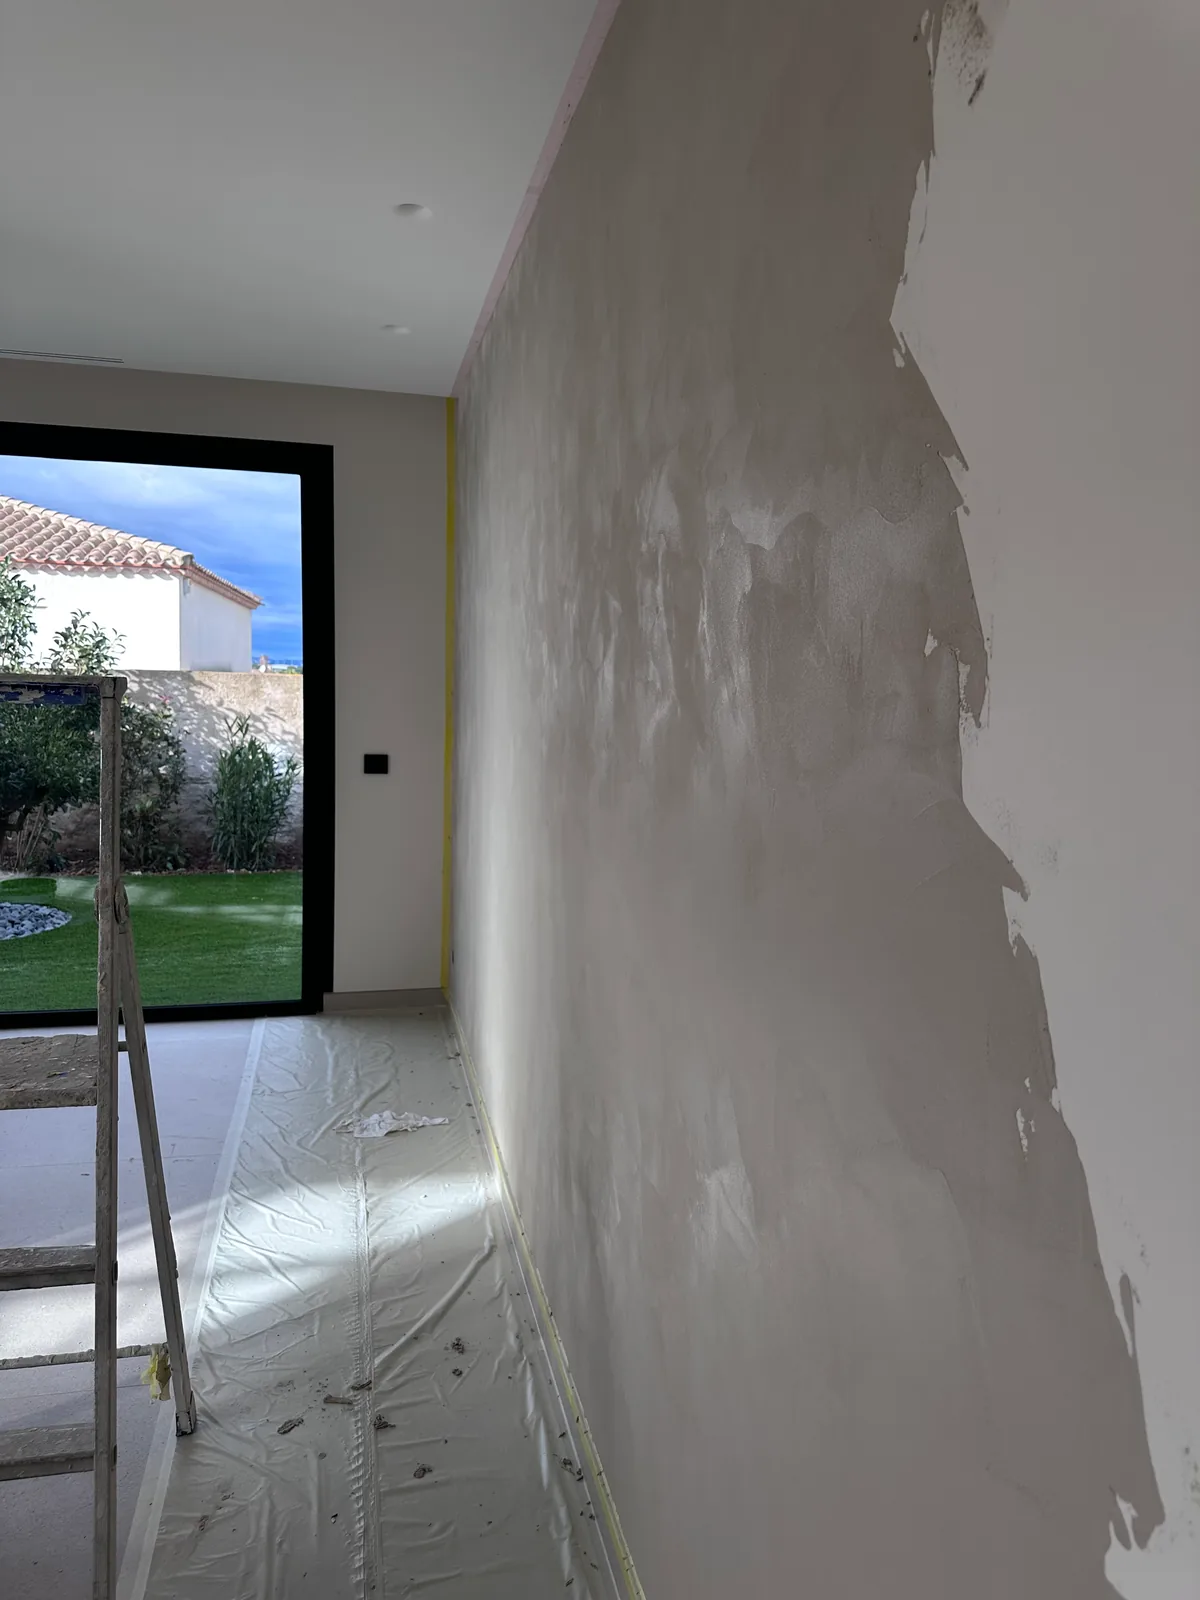
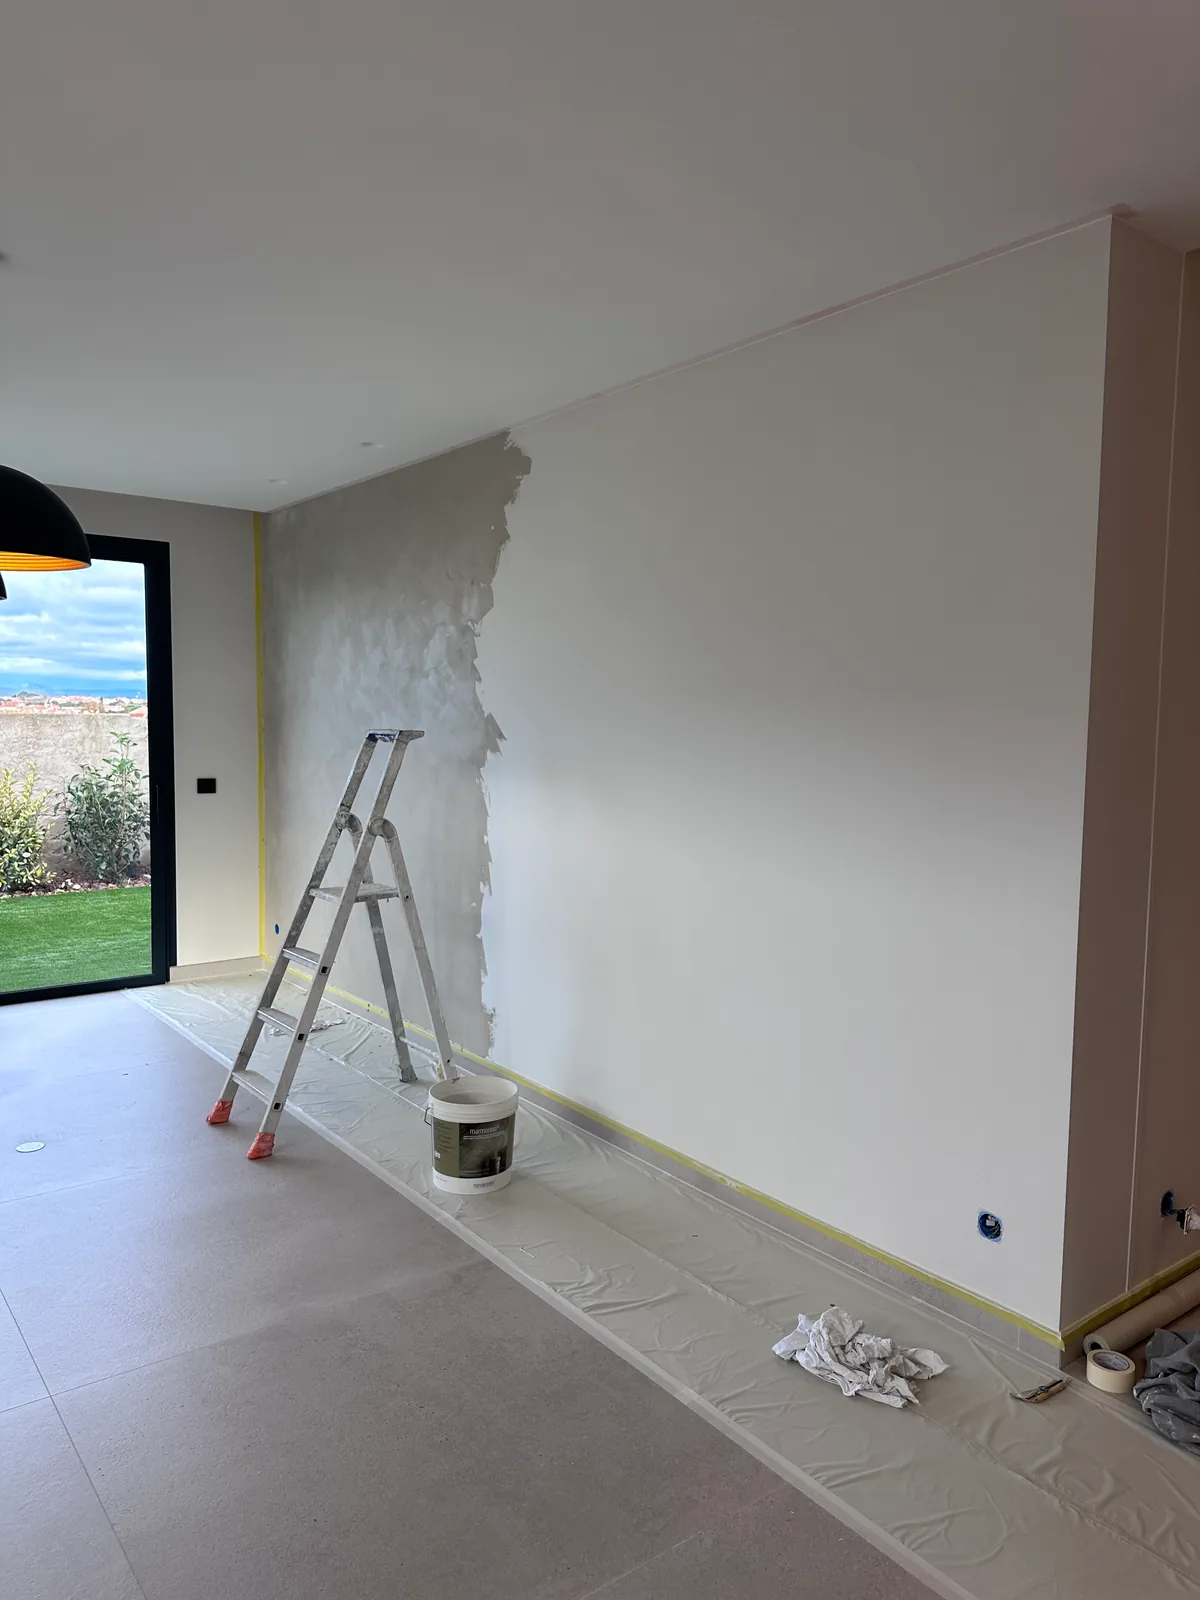
fix(realisations): chronologie photographique de la fiche maison de standing
- ordre des chapitres : état initial, ratissage, coordination, protections, peintures, Marmorino, papiers peints
- IMG_4076 et IMG_4282 présentées comme état initial (plaques de plâtre, bandes de joints), plus sous le ratissage
- IMG_4664 (application du Marmorino) uniquement dans les finitions décoratives ; IMG_4670 retirée
- protections : présentation textuelle, sans photographie d'une autre opération
- photos du ratissage (IMG_4283, IMG_4291) à ajouter dès que les fichiers sont disponibles
- fichiers WebP inutilisés supprimés, légendes et textes alternatifs actualisés, tests de chronologie

diff --git a/sitesite-template/realisations/peinture-interieure-maison-standing-perpignan/index.html b/sitesite-template/realisations/peinture-interieure-maison-standing-perpignan/index.html
@@ -88,7 +88,7 @@
     ]
   }
   </script>
-  <link rel="stylesheet" href="../../assets/css/style.css?v=4b5581b3ad" />
+  <link rel="stylesheet" href="../../assets/css/style.css?v=5c63f0f012" />
 </head>
 <body class="rx">
   <div id="top" aria-hidden="true"></div>
@@ -167,11 +167,10 @@
     <section aria-label="Déroulé du chantier">
       <div class="container rx-chapters">
 
-        <article class="rx-chapter">
+        <article class="rx-chapter" id="etat-initial">
           <div class="rx-chapter__text">
-            <h2>Un ratissage complet des murs et plafonds, avant le carrelage</h2>
-            <p>Avant la pose des revêtements de sol, nous avons ratissé l'intégralité des murs et des plafonds de la maison. Les enduits ont été projetés mécaniquement avec notre machine airless Graco Mark V, un matériel professionnel adapté aux grandes surfaces.</p>
-            <p>Cette préparation complète des supports, réalisée avant l'intervention du carreleur, vise une régularité d'ensemble sur des murs et des plafonds de grande hauteur.</p>
+            <h2>État initial : plaques de plâtre et bandes de joints</h2>
+            <p>Le chantier a démarré sur des parois et des plafonds en plaques de plâtre, dont les bandes de joints sont encore apparentes, dans de grands volumes sous une importante hauteur de plafond.</p>
           </div>
           <div class="rx-chapter__media rx-chapter__media--pair">
             <figure class="rx-photo">
@@ -179,29 +178,36 @@
               <img src="../../assets/images/realisations/peinture-interieure-maison-perpignan/volume-avant-travaux-720.webp"
                 srcset="../../assets/images/realisations/peinture-interieure-maison-perpignan/volume-avant-travaux-720.webp 720w, ../../assets/images/realisations/peinture-interieure-maison-perpignan/volume-avant-travaux-1200.webp 1200w"
                 sizes="(max-width: 900px) calc((100vw - 56px) / 2), 310px"
-                alt="Grand volume sous haut plafond avant la peinture : murs et plafond en plaques de plâtre jointoyées, échafaudage roulant et grande baie vitrée"
+                alt="Grand volume sous haut plafond à l&#x27;état initial : murs et plafond en plaques de plâtre aux bandes de joints visibles, échafaudage roulant et grande baie vitrée"
                 width="720" height="960" loading="lazy" decoding="async" />
             </a>
-            <figcaption>Grand volume avant les travaux de peinture : parois en plaques de plâtre et échafaudage roulant.</figcaption>
+            <figcaption>Grand volume à l&#x27;état initial : plaques de plâtre, bandes de joints visibles et échafaudage roulant.</figcaption>
           </figure>
             <figure class="rx-photo">
-            <a class="rx-zoom" href="../../assets/images/realisations/peinture-interieure-maison-perpignan/preparation-sejour-echafaudage-1200.webp" data-rx-photo>
-              <img src="../../assets/images/realisations/peinture-interieure-maison-perpignan/preparation-sejour-echafaudage-720.webp"
-                srcset="../../assets/images/realisations/peinture-interieure-maison-perpignan/preparation-sejour-echafaudage-720.webp 720w, ../../assets/images/realisations/peinture-interieure-maison-perpignan/preparation-sejour-echafaudage-1200.webp 1200w"
+            <a class="rx-zoom" href="../../assets/images/realisations/peinture-interieure-maison-perpignan/etat-initial-sejour-echafaudage-1200.webp" data-rx-photo>
+              <img src="../../assets/images/realisations/peinture-interieure-maison-perpignan/etat-initial-sejour-echafaudage-720.webp"
+                srcset="../../assets/images/realisations/peinture-interieure-maison-perpignan/etat-initial-sejour-echafaudage-720.webp 720w, ../../assets/images/realisations/peinture-interieure-maison-perpignan/etat-initial-sejour-echafaudage-1200.webp 1200w"
                 sizes="(max-width: 900px) calc((100vw - 56px) / 2), 310px"
-                alt="Séjour pendant la préparation des supports : échafaudage roulant, sol brut et grandes baies vitrées noires sur l&#x27;extérieur"
+                alt="Séjour à l&#x27;état initial : parois en plaques de plâtre aux bandes de joints visibles, sol brut, échafaudage roulant et grandes baies vitrées noires"
                 width="720" height="960" loading="lazy" decoding="async" />
             </a>
-            <figcaption>Le séjour pendant la préparation des supports : sols encore bruts, avant la pose du carrelage.</figcaption>
+            <figcaption>Le séjour à l&#x27;état initial : parois en plaques de plâtre aux bandes de joints visibles, sols encore bruts.</figcaption>
           </figure>
           </div>
         </article>
 
-        <article class="rx-chapter">
+        <article class="rx-chapter rx-chapter--text" id="ratissage">
           <div class="rx-chapter__text">
-            <h2>Coordination des corps de métier et protection des ouvrages neufs</h2>
+            <h2>Ratissage intégral des murs et plafonds, avant le carrelage</h2>
+            <p>Avant la pose des revêtements de sol, nous avons ratissé l'intégralité des murs et des plafonds de la maison. Les enduits ont été projetés mécaniquement avec notre machine airless Graco Mark V, un matériel professionnel adapté aux grandes surfaces.</p>
+            <p>Cette préparation complète des supports, réalisée avant l'intervention du carreleur, vise une régularité d'ensemble sur des murs et des plafonds de grande hauteur.</p>
+          </div>
+        </article>
+
+        <article class="rx-chapter" id="coordination">
+          <div class="rx-chapter__text">
+            <h2>Coordination des corps de métier</h2>
             <p>Après ces premières préparations, nous avons laissé intervenir les autres corps de métier : le carreleur a posé les revêtements de sol, le menuisier et les autres intervenants ont poursuivi leurs installations. Nous sommes ensuite revenus pour les dernières préparations et les peintures.</p>
-            <p>Avant toute pulvérisation, nous avons soigneusement protégé les sols carrelés, les dressings, les menuiseries, les portes toute hauteur en chêne et les autres ouvrages neufs exposés. Cette étape fait partie de notre méthode : préserver le travail des autres artisans.</p>
           </div>
           <div class="rx-chapter__media rx-chapter__media--pair">
             <figure class="rx-photo">
@@ -212,54 +218,52 @@
                 alt="Cuisine ouverte sous une grande hauteur de plafond, îlot blanc, sols carrelés et outils de chantier au premier plan"
                 width="720" height="960" loading="lazy" decoding="async" />
             </a>
-            <figcaption>Cuisine et grand volume après le passage des autres corps de métier : sols carrelés et agencements en place.</figcaption>
+            <figcaption>Cuisine et grand volume : sols carrelés et agencements posés par les autres intervenants.</figcaption>
           </figure>
-            <figure class="rx-photo">
-            <a class="rx-zoom" href="../../assets/images/realisations/peinture-interieure-maison-perpignan/protection-sol-bache-ruban-1200.webp" data-rx-photo>
-              <img src="../../assets/images/realisations/peinture-interieure-maison-perpignan/protection-sol-bache-ruban-720.webp"
-                srcset="../../assets/images/realisations/peinture-interieure-maison-perpignan/protection-sol-bache-ruban-720.webp 720w, ../../assets/images/realisations/peinture-interieure-maison-perpignan/protection-sol-bache-ruban-1200.webp 1200w"
-                sizes="(max-width: 900px) calc((100vw - 56px) / 2), 310px"
-                alt="Mur en cours de travaux, sol carrelé recouvert d&#x27;une bâche, ruban de masquage jaune en pied de mur et escabeau devant une fenêtre noire"
-                width="720" height="960" loading="lazy" decoding="async" />
-            </a>
-            <figcaption>Sol carrelé protégé par une bâche et un ruban de masquage avant l&#x27;application d&#x27;un enduit décoratif.</figcaption>
-          </figure>
-          </div>
-        </article>
-
-        <article class="rx-chapter">
-          <div class="rx-chapter__text">
-            <h2>Ponçage, primaire de fixation et peintures à l'airless</h2>
-            <p>Nous avons poncé les enduits et repris les dernières préparations nécessaires, puis appliqué un primaire de fixation avant la mise en peinture complète des murs et des plafonds. Toutes les peintures ont été appliquées par pulvérisation mécanisée à l'airless.</p>
-            <p>Les murs ont reçu une peinture de teinte grège, les plafonds une peinture blanche mate : une harmonie sobre, qui laisse la lumière des grandes baies vitrées jouer sur les volumes.</p>
-          </div>
-          <div class="rx-chapter__media rx-chapter__media--pair">
             <figure class="rx-photo">
             <a class="rx-zoom" href="../../assets/images/realisations/peinture-interieure-maison-perpignan/baie-vitree-volume-1200.webp" data-rx-photo>
               <img src="../../assets/images/realisations/peinture-interieure-maison-perpignan/baie-vitree-volume-720.webp"
                 srcset="../../assets/images/realisations/peinture-interieure-maison-perpignan/baie-vitree-volume-720.webp 720w, ../../assets/images/realisations/peinture-interieure-maison-perpignan/baie-vitree-volume-1200.webp 1200w"
                 sizes="(max-width: 900px) calc((100vw - 56px) / 2), 310px"
-                alt="Grand volume intérieur sous haut plafond avec grande baie vitrée, suspensions en boules et échafaudage roulant"
+                alt="Grand volume intérieur sous haut plafond avec grande baie vitrée, suspensions en boules, sol carrelé et échafaudage roulant"
                 width="720" height="960" loading="lazy" decoding="async" />
             </a>
-            <figcaption>Grande baie vitrée et volume intérieur : murs et plafond peints, sols en grandes dalles.</figcaption>
-          </figure>
-            <figure class="rx-photo">
-            <a class="rx-zoom" href="../../assets/images/realisations/peinture-interieure-maison-perpignan/finitions-murales-piece-1200.webp" data-rx-photo>
-              <img src="../../assets/images/realisations/peinture-interieure-maison-perpignan/finitions-murales-piece-720.webp"
-                srcset="../../assets/images/realisations/peinture-interieure-maison-perpignan/finitions-murales-piece-720.webp 720w, ../../assets/images/realisations/peinture-interieure-maison-perpignan/finitions-murales-piece-1200.webp 1200w"
-                sizes="(max-width: 900px) calc((100vw - 56px) / 2), 310px"
-                alt="Pièce aux murs clairs et au plafond blanc terminés, spots encastrés, sol en grandes dalles et porte en chêne au fond"
-                width="720" height="960" loading="lazy" decoding="async" />
-            </a>
-            <figcaption>Finitions murales d&#x27;une pièce : murs et plafond terminés, porte toute hauteur en chêne au fond.</figcaption>
+            <figcaption>Grand volume après la pose du carrelage : les autres corps de métier poursuivent leurs installations.</figcaption>
           </figure>
           </div>
         </article>
 
-        <article class="rx-chapter">
+        <article class="rx-chapter rx-chapter--text" id="protections">
           <div class="rx-chapter__text">
-            <h2>Enduits décoratifs Marmorino : travail de matière et lustrage</h2>
+            <h2>Protection des ouvrages neufs</h2>
+            <p>Avant toute pulvérisation, nous avons soigneusement protégé les sols carrelés, les dressings, les menuiseries, les portes toute hauteur en chêne et les autres ouvrages neufs exposés.</p>
+            <p>Cette étape fait partie de notre méthode : préserver le travail des autres artisans avant de peindre.</p>
+          </div>
+        </article>
+
+        <article class="rx-chapter" id="peintures">
+          <div class="rx-chapter__text">
+            <h2>Ponçage, primaire de fixation et peintures à l'airless</h2>
+            <p>Nous avons poncé les enduits et repris les dernières préparations nécessaires, puis appliqué un primaire de fixation avant la mise en peinture complète des murs et des plafonds. Toutes les peintures ont été appliquées par pulvérisation mécanisée à l'airless.</p>
+            <p>Les murs ont reçu une peinture de teinte grège, les plafonds une peinture blanche mate : une harmonie sobre, qui laisse la lumière des grandes baies vitrées jouer sur les volumes.</p>
+          </div>
+          <div class="rx-chapter__media rx-chapter__media--narrow">
+            <figure class="rx-photo">
+            <a class="rx-zoom" href="../../assets/images/realisations/peinture-interieure-maison-perpignan/finitions-murales-piece-1200.webp" data-rx-photo>
+              <img src="../../assets/images/realisations/peinture-interieure-maison-perpignan/finitions-murales-piece-720.webp"
+                srcset="../../assets/images/realisations/peinture-interieure-maison-perpignan/finitions-murales-piece-720.webp 720w, ../../assets/images/realisations/peinture-interieure-maison-perpignan/finitions-murales-piece-1200.webp 1200w"
+                sizes="(max-width: 900px) calc(100vw - 40px), 520px"
+                alt="Pièce aux murs clairs et au plafond blanc terminés, spots encastrés, sol en grandes dalles et porte en chêne au fond"
+                width="720" height="960" loading="lazy" decoding="async" />
+            </a>
+            <figcaption>Murs et plafond terminés dans une pièce de la maison, porte toute hauteur en chêne au fond.</figcaption>
+          </figure>
+          </div>
+        </article>
+
+        <article class="rx-chapter" id="marmorino">
+          <div class="rx-chapter__text">
+            <h2>Finitions décoratives : enduits Marmorino et lustrage</h2>
             <p>Plusieurs espaces de la maison ont reçu des finitions décoratives personnalisées. Nous y avons appliqué des enduits décoratifs Marmorino, avec un travail de matière, puis lustré les surfaces à la machine.</p>
             <p>Selon les espaces, les finitions ont été réalisées dans des teintes claires ou brunes, comme le montrent les photographies de l'application, du lustrage et des résultats.</p>
           </div>
@@ -270,7 +274,7 @@
               <img src="../../assets/images/realisations/peinture-interieure-maison-perpignan/marmorino-application-720.webp"
                 srcset="../../assets/images/realisations/peinture-interieure-maison-perpignan/marmorino-application-720.webp 720w, ../../assets/images/realisations/peinture-interieure-maison-perpignan/marmorino-application-1200.webp 1200w"
                 sizes="(max-width: 900px) calc((100vw - 56px) / 2), 310px"
-                alt="Mur à moitié recouvert d&#x27;un enduit décoratif en cours d&#x27;application, sol protégé par une bâche et ruban de masquage en pied de mur"
+                alt="Mur à moitié recouvert d&#x27;un enduit décoratif Marmorino en cours d&#x27;application, sol protégé par une bâche et ruban de masquage en pied de mur"
                 width="720" height="960" loading="lazy" decoding="async" />
             </a>
             <figcaption>Application du Marmorino : le mur est traité par zones, sol et pied de mur protégés.</figcaption>
@@ -311,7 +315,7 @@
           </div>
         </article>
 
-        <article class="rx-chapter">
+        <article class="rx-chapter" id="papiers-peints">
           <div class="rx-chapter__text">
             <h2>Papiers peints panoramiques</h2>
             <p>Nous avons également posé des papiers peints panoramiques. Deux de ces décorations sont photographiées ici : l'une à motif de feuillages, l'autre à motif de plumes.</p>

diff --git a/sitesite-template/perpignan.html b/sitesite-template/perpignan.html
@@ -24,7 +24,7 @@
     content="Artisan peintre à Perpignan : peinture intérieure et extérieure, rénovation des murs et plafonds, enduits et revêtements de sol. Devis gratuit, réponse sous 24 h." />
   <meta name="twitter:image" content="https://styleetdeco.fr/assets/images/social-preview.jpg" />
   <link rel="icon" href="/favicon.ico" sizes="any" />
-  <link rel="stylesheet" href="./assets/css/style.css?v=4b5581b3ad" />
+  <link rel="stylesheet" href="./assets/css/style.css?v=5c63f0f012" />
   <style>
     /* Page Perpignan : composition éditoriale (titre au-dessus du texte), hero mobile photo + texte, cartes lisibles.
        Réutilise les variables, boutons, cartes et pastilles du site. */

diff --git a/sitesite-template/merci-rappel.html b/sitesite-template/merci-rappel.html
@@ -10,7 +10,7 @@
   <link rel="icon" type="image/png" sizes="32x32" href="/assets/images/favicon-32.png" />
   <link rel="icon" type="image/png" sizes="192x192" href="/assets/images/favicon-192.png" />
   <link rel="apple-touch-icon" sizes="180x180" href="/assets/images/favicon-180.png" />
-  <link rel="stylesheet" href="/assets/css/style.css?v=4b5581b3ad" />
+  <link rel="stylesheet" href="/assets/css/style.css?v=5c63f0f012" />
 </head>
 <body>
   <main class="merci" aria-label="Confirmation de la demande de rappel">

diff --git a/sitesite-template/assets/css/style.css b/sitesite-template/assets/css/style.css
@@ -3310,6 +3310,7 @@ button{ font-family: inherit; font-size: inherit; }
   background: linear-gradient(90deg, var(--accent), rgba(215,181,109,0));
 }
 .rx-chapter__text p{ margin: 0 0 12px; max-width: 58ch; color: rgba(255,255,255,.78); line-height: 1.7; }
+.rx-chapter--text{ grid-template-columns: minmax(0, 1fr); }
 .rx-chapter__media{ display: grid; gap: 16px; }
 .rx-chapter__media--pair{ grid-template-columns: repeat(2, minmax(0, 1fr)); align-items: start; }
 .rx-chapter__media--narrow{ max-width: 520px; }

diff --git a/sitesite-template/merci.html b/sitesite-template/merci.html
@@ -10,7 +10,7 @@
   <link rel="icon" type="image/png" sizes="32x32" href="/assets/images/favicon-32.png" />
   <link rel="icon" type="image/png" sizes="192x192" href="/assets/images/favicon-192.png" />
   <link rel="apple-touch-icon" sizes="180x180" href="/assets/images/favicon-180.png" />
-  <link rel="stylesheet" href="/assets/css/style.css?v=4b5581b3ad" />
+  <link rel="stylesheet" href="/assets/css/style.css?v=5c63f0f012" />
 </head>
 <body>
   <main class="merci" aria-label="Confirmation d'envoi">

diff --git a/sitesite-template/legal/mentions-legales.html b/sitesite-template/legal/mentions-legales.html
@@ -10,7 +10,7 @@
   <link rel="icon" type="image/png" sizes="32x32" href="/assets/images/favicon-32.png" />
   <link rel="icon" type="image/png" sizes="192x192" href="/assets/images/favicon-192.png" />
   <link rel="apple-touch-icon" sizes="180x180" href="/assets/images/favicon-180.png" />
-  <link rel="stylesheet" href="../assets/css/style.css?v=4b5581b3ad" />
+  <link rel="stylesheet" href="../assets/css/style.css?v=5c63f0f012" />
 </head>
 <body>
   <header class="header">

diff --git a/sitesite-template/legal/politique-confidentialite.html b/sitesite-template/legal/politique-confidentialite.html
@@ -10,7 +10,7 @@
   <link rel="icon" type="image/png" sizes="32x32" href="/assets/images/favicon-32.png" />
   <link rel="icon" type="image/png" sizes="192x192" href="/assets/images/favicon-192.png" />
   <link rel="apple-touch-icon" sizes="180x180" href="/assets/images/favicon-180.png" />
-  <link rel="stylesheet" href="../assets/css/style.css?v=4b5581b3ad" />
+  <link rel="stylesheet" href="../assets/css/style.css?v=5c63f0f012" />
 </head>
 <body>
   <header class="header">

diff --git a/sitesite-template/lead-rate-limited.html b/sitesite-template/lead-rate-limited.html
@@ -5,7 +5,7 @@
   <meta name="viewport" content="width=device-width, initial-scale=1" />
   <meta name="robots" content="noindex" />
   <title>Envoi impossible | Style &amp; Déco</title>
-  <link rel="stylesheet" href="/assets/css/style.css?v=4b5581b3ad" />
+  <link rel="stylesheet" href="/assets/css/style.css?v=5c63f0f012" />
 </head>
 <body>
   <main class="section" aria-label="Envoi impossible">

diff --git a/sitesite-template/realisations/ravalement-facade-immeuble-perpignan/index.html b/sitesite-template/realisations/ravalement-facade-immeuble-perpignan/index.html
@@ -88,7 +88,7 @@
     ]
   }
   </script>
-  <link rel="stylesheet" href="../../assets/css/style.css?v=4b5581b3ad" />
+  <link rel="stylesheet" href="../../assets/css/style.css?v=5c63f0f012" />
 </head>
 <body class="rx">
   <div id="top" aria-hidden="true"></div>

diff --git a/sitesite-template/realisations/index.html b/sitesite-template/realisations/index.html
@@ -89,7 +89,7 @@
     ]
   }
   </script>
-  <link rel="stylesheet" href="../assets/css/style.css?v=4b5581b3ad" />
+  <link rel="stylesheet" href="../assets/css/style.css?v=5c63f0f012" />
 </head>
 <body class="rx">
   <div id="top" aria-hidden="true"></div>

diff --git a/sitesite-template/facade-saint-cyprien/index.html b/sitesite-template/facade-saint-cyprien/index.html
@@ -78,7 +78,7 @@
     ]
   }
   </script>
-  <link rel="stylesheet" href="../assets/css/style.css?v=4b5581b3ad" />
+  <link rel="stylesheet" href="../assets/css/style.css?v=5c63f0f012" />
   <style>
     .local-page main {
       overflow: clip;

diff --git a/sitesite-template/peintre-saint-cyprien/index.html b/sitesite-template/peintre-saint-cyprien/index.html
@@ -74,7 +74,7 @@
     ]
   }
   </script>
-  <link rel="stylesheet" href="../assets/css/style.css?v=4b5581b3ad" />
+  <link rel="stylesheet" href="../assets/css/style.css?v=5c63f0f012" />
   <style>
     .local-page main {
       overflow: clip;
